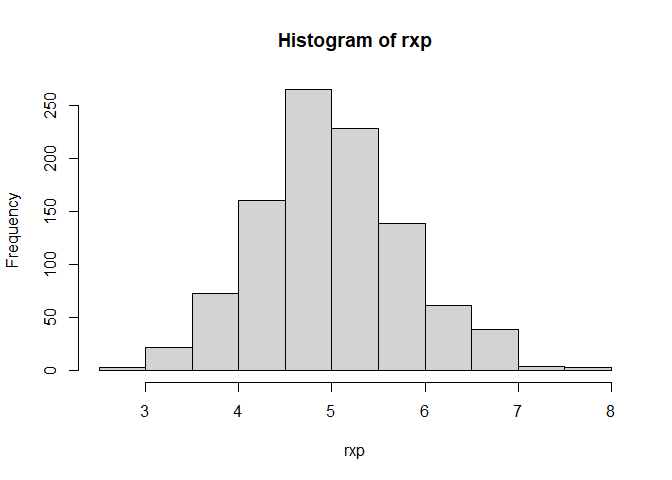
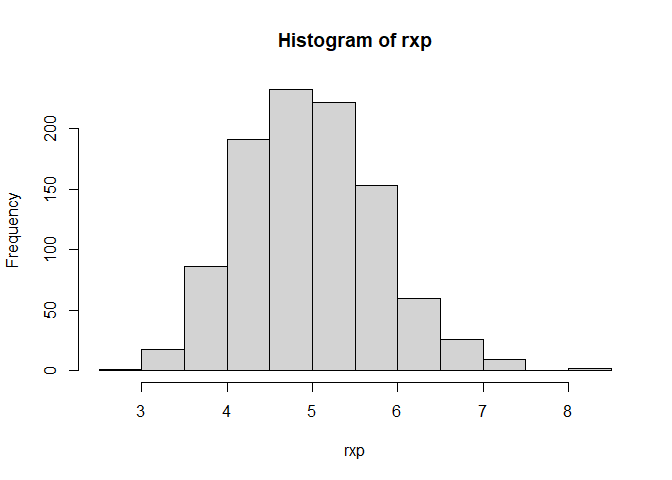
Jan 10

diff --git a/week4-coursework.md b/week4-coursework.md
@@ -13,16 +13,27 @@ output:
 # Exponential Distribution 
 Generate 40 random variables and take the mean using rexp()as well (lamda = 0.2, n = 40)
 Then, store the mean in "rxp" and repete it 1,000 times
-Finally make hitogram of the mns
+Finally make histogram of the mns
 
+
+
+```r
+rxp <- NULL; lamda <- 0.2
+for (i in 1:1000) rxp <- c(rxp, mean(rexp(40, lamda)))
+hist(rxp)
+```
 
 ![](week4-coursework_files/figure-html/unnamed-chunk-1-1.png)<!-- -->
 
 # 1.Show the sample mean and compare it to the theoretical mean of the distribution.
 
 
+```r
+print(c("sample mean", mean(rxp))); print(c("theoretical mean", 1/lamda)) 
 ```
-## [1] "sample mean"      "4.99991076580638"
+
+```
+## [1] "sample mean"      "4.97967534468169"
 ```
 
 ```
@@ -31,26 +42,39 @@ Finally make hitogram of the mns
 check 95% confidence interval with t.test() and make sure there is no statistical significant between the two means
 
 
+```r
+t.test(rxp)
+```
+
 ```
 ## 
 ## 	One Sample t-test
 ## 
 ## data:  rxp
-## t = 199.15, df = 999, p-value < 2.2e-16
+## t = 197.03, df = 999, p-value < 2.2e-16
 ## alternative hypothesis: true mean is not equal to 0
 ## 95 percent confidence interval:
-##  4.950645 5.049177
+##  4.930080 5.029271
 ## sample estimates:
 ## mean of x 
-##  4.999911
+##  4.979675
 ```
 
 
 # 2.Show how variable the sample is(via variance) and compare it to the theoretical variance of the distrubution.
 the variance of the distribution is μ^2/n, thus the sample variance and theoretical variance are
 
+```r
+print(c("sample variance", var(rxp)))
 ```
-## [1] "sample variance"   "0.630303877889683"
+
+```
+## [1] "sample variance"   "0.638763771197883"
+```
+
+```r
+theova <- ((1/lamda)^2)/40
+print(c("theoretical variance", ((1/lamda)^2)/40))
 ```
 
 ```
@@ -60,4 +84,11 @@ the variance of the distribution is μ^2/n, thus the sample variance and theoret
 # 3.Show that the distribution is approximately normal
 
 
+```r
+hist(rxp, freq = FALSE)
+curve(dnorm(x,mean = 1/lamda, sd = (lamda*sqrt(40))^-1),add = TRUE,from = 2, to = 8, col = "red", lwd = 3)
+lines(density(rxp), col = "blue", lwd = 3)
+```
+
+![](week4-coursework_files/figure-html/unnamed-chunk-5-1.png)<!-- -->
 
